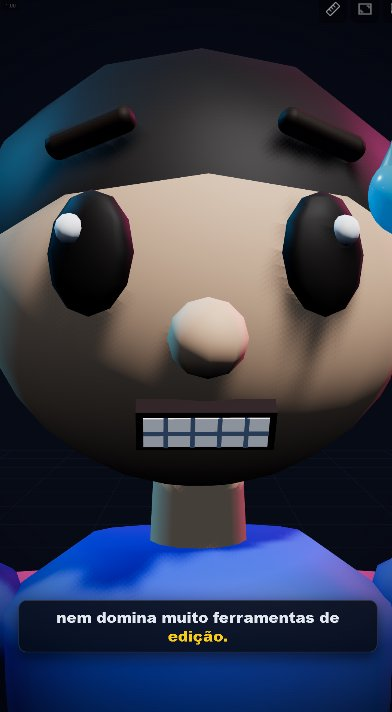
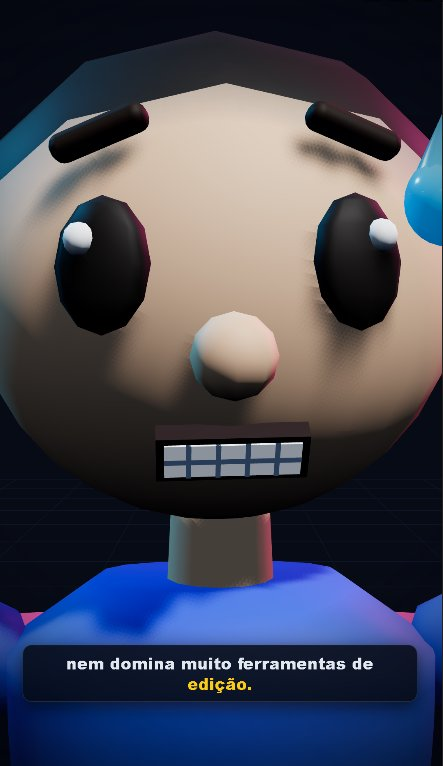
refactor: adjust hair tilt and scale in character parts and update reference asset

diff --git a/hyperframes/src/3d/characters/parts.js b/hyperframes/src/3d/characters/parts.js
@@ -13,14 +13,14 @@ export const HELD_ITEMS = ['none', 'hammer', 'clipboard', 'shovel'];
 
 const H = DIMS.head;
 const HAT_TILT = -0.3; // chapéu e cabelo inclinados para trás: a borda da frente sobe e libera a testa
-const HAIR_TILT = -0.55;
+const HAIR_TILT = -0.92;
 
 // Casca de cabelo cobrindo a cabeça. Sem chapéu: coroa inteira; com chapéu: só a nuca (o chapéu cobre o topo).
 function hairShell(parent, color, covered) {
   const g = new THREE.Group();
   g.position.set(0, H.cy, 0);
   g.rotation.x = covered ? HAT_TILT : HAIR_TILT;
-  g.scale.set(H.rx * 1.07, H.ry * 1.07, H.rz * 1.07);
+  g.scale.set(H.rx * 1.11, H.ry * 1.11, H.rz * 1.11);
   parent.add(g);
   const geo = covered ? shell(1.25, 0.9, Math.PI, Math.PI) : shell(0, 1.75);
   mesh(geo, color, { parent: g });
